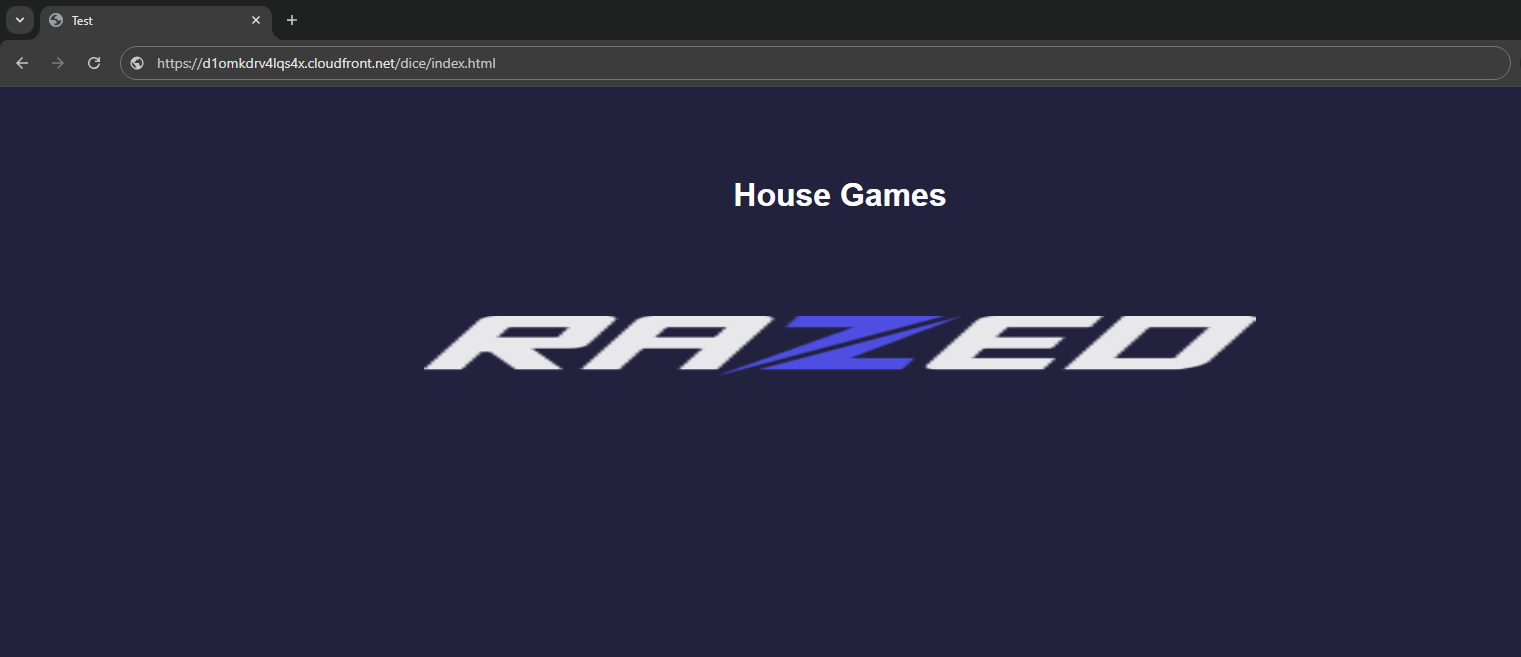
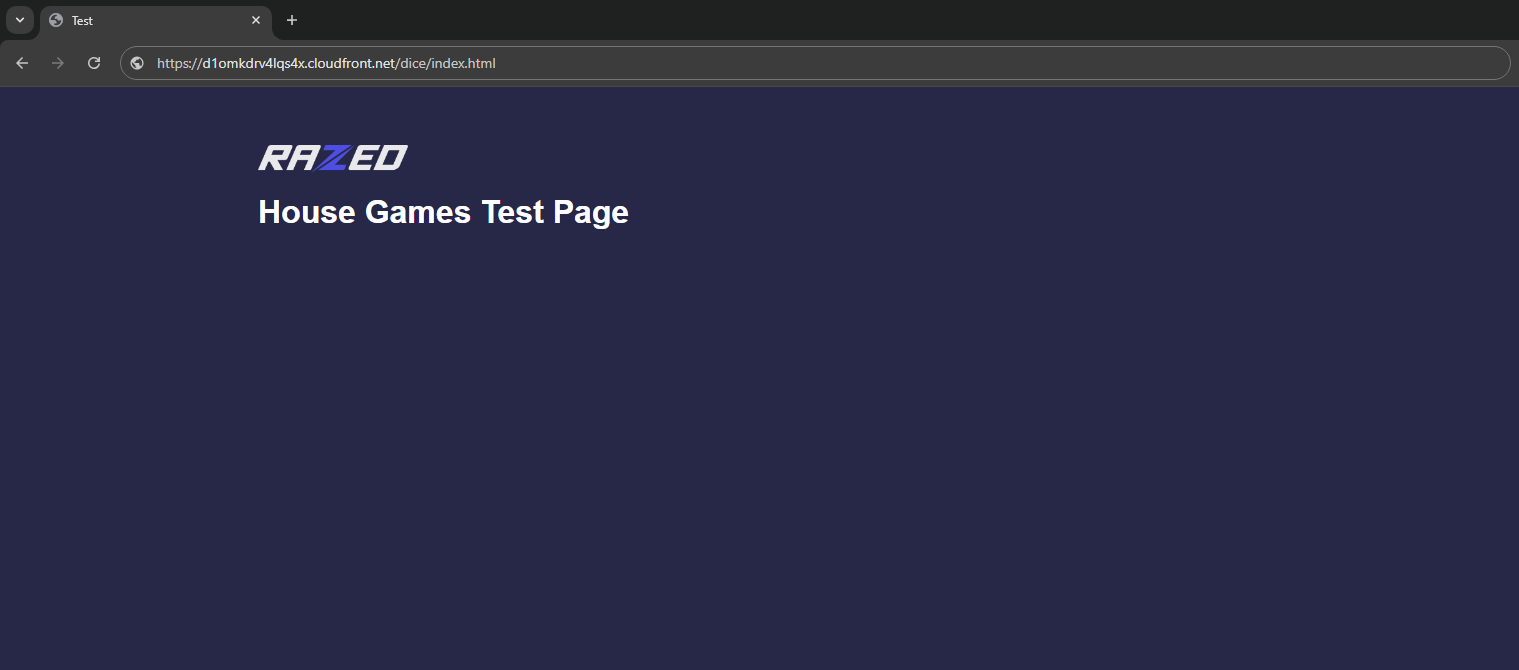
Improve README.md

diff --git a/s3-cloudfront/test/index.html b/s3-cloudfront/test/index.html
@@ -1,15 +1,10 @@
 <html>
     <head>
-        <title>My First Webpage</title>
+        <title>Test</title>
     </head>
-    <body>
-        <h1>The Great Himalayas!</h1>
-        <h1>The Great!</h1>
-        <h1>The Himalayas!</h1>
-        <p>Whats your next adventure?</p>
+    <body style="background-color:#272748;">
+        <img alt="logo" loading="lazy" width="150" height="27.5" decoding="async" data-nimg="1" class="" style="color:transparent;padding-top:50px;padding-left:250px;;" src="https://cdn-cms.razed.com/Logo/Logo.png">
+        <h1 style="font-family:Barlow, sans-serif;padding-left:250px;color:white;">House Games Test Page</h1>
     </body>
-
-    <img src="himalaya.jpg" width=1000/>
-
 </html>
 

diff --git a/s3-cloudfront/README.md b/s3-cloudfront/README.md
@@ -1,13 +1,13 @@
-# Deploying a cloudfront distribution for S3 Static Website using terraform
-Deploying a cloudfront distribution for S3 Static Website using terraform
+# Deploying a Cloudfront distribution for S3 Static Websites using Terraform
 
-Amazon CloudFront is a web service that speeds up distribution of your static and dynamic web content, such as .html, .css, .js, and image files, to your users. CloudFront delivers your content through a worldwide network of data centers called edge locations. When a user requests content that you're serving with CloudFront, the request is routed to the edge location that provides the lowest latency (time delay), so that content is delivered with the best possible performance.
+The frontend applications for the following ```RAZED House Games``` will be hosted on an AWS S3 bucket:
+- Dice
+- Keno
+- Limbo
+- Mines
+- Plinko
 
-If the content is already in the edge location with the lowest latency, CloudFront delivers it immediately.
-
-If the content is not in that edge location, CloudFront retrieves it from an origin that you've defined—such as an Amazon S3 bucket, a MediaPackage channel, or an HTTP server (for example, a web server) that you have identified as the source for the definitive version of your content.
-
-CloudFront speeds up the distribution of your content by routing each user request through the AWS backbone network to the edge location that can best serve your content.
+The static websites can be accessed thru the Cloudfront distribution domain name, as well as the alternate domain name. 
 
 ### Architecture Diagram:
 
@@ -15,9 +15,15 @@ CloudFront speeds up the distribution of your content by routing each user reque
 
 ### Step 1: Create an S3 bucket with unique name and host static website by uploading files
 
+./modules/s3-static-website/main.tf
+
 ### Step 2: Create a cloudfront distribution 
 
+./modules/cloud-front/main.tf
+
 ### Step 3: Update S3 Bucket policy to allow access from cloudfront 
+
+./modules/s3-cf-policy/main.tf
 
 ### Terraform Apply Output:
 ```
@@ -25,7 +31,9 @@ Apply complete! Resources: 11 added, 0 changed, 0 destroyed.
 
 Outputs:
 
-cloudfront_domain_name = "http://d1rwkmekbjnbkd.cloudfront.net"
+alternate_domain_name = "http://house-games-dev.razed.com"
+cloudfront_domain_name = "http://d1omkdrv4lqs4x.cloudfront.net"
+s3_bucket_name = "dev-london-h0us3-g4m3s-fr0nt3nd"
 ```
 
 S3 Bucket
@@ -65,6 +73,7 @@ Destroy complete! Resources: 9 destroyed.
 1. Cache Invalidation can be forced from console for a cloudfront distribution
 2. Deprecated Origin Access Identity OAI also can be used instead of Origin Access Cotnrol OAC
 
-### Resources:
-
-AWS CloudFront: https://docs.aws.amazon.com/AmazonCloudFront/latest/DeveloperGuide/Introduction.html
+### Test:
+ ```
+ aws s3 cp --recursive ./test s3://dev-london-h0us3-g4m3s-fr0nt3nd/dice
+ ```
